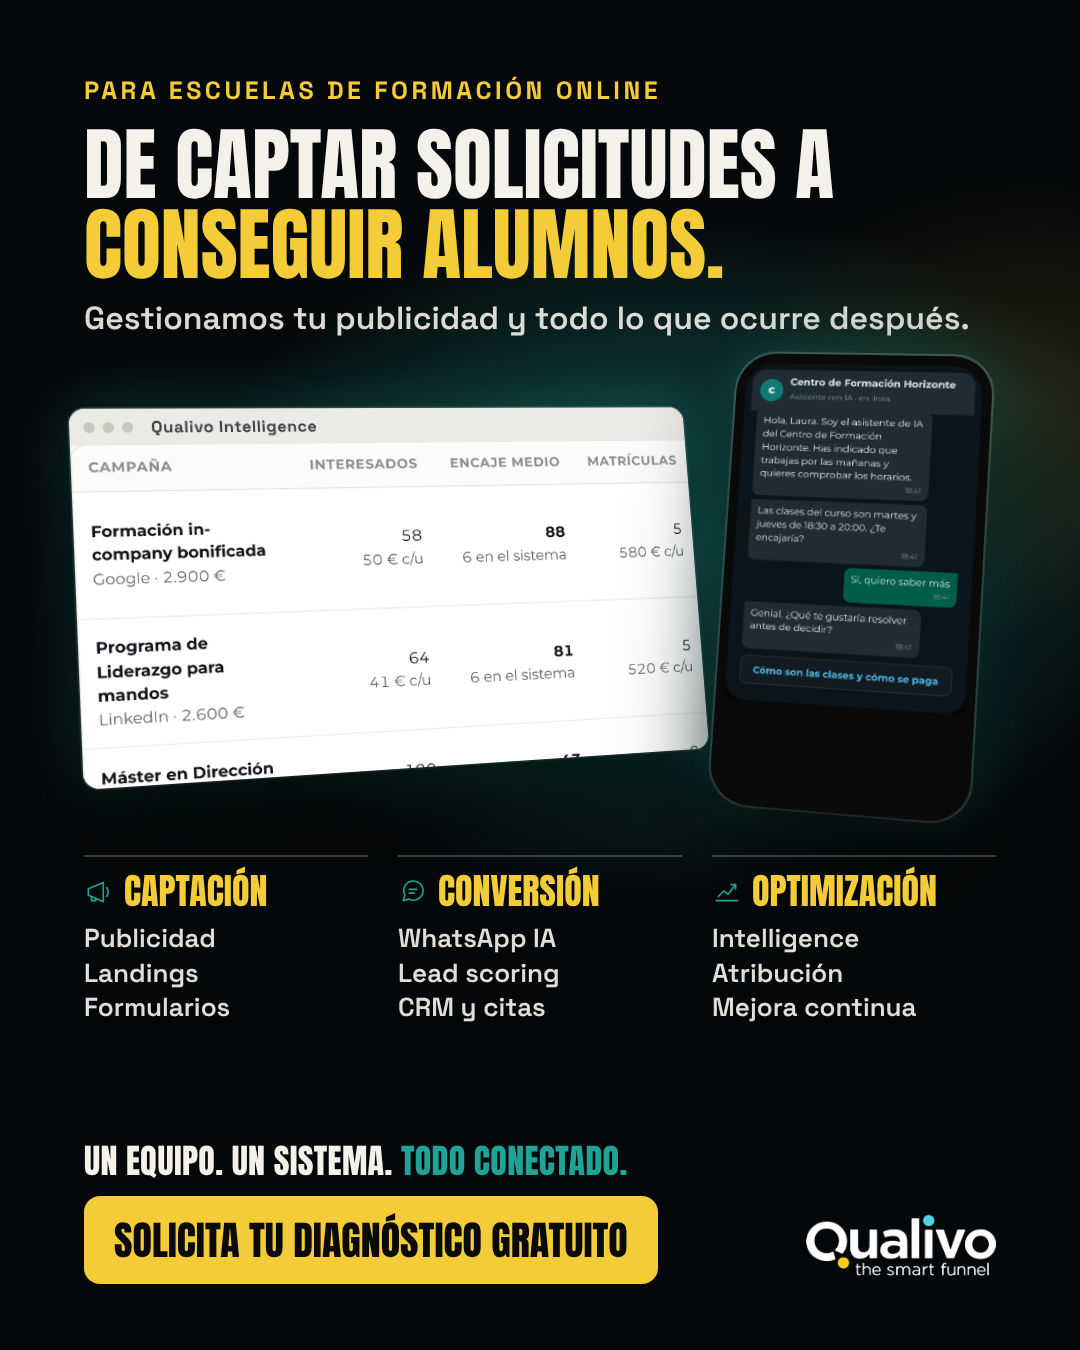
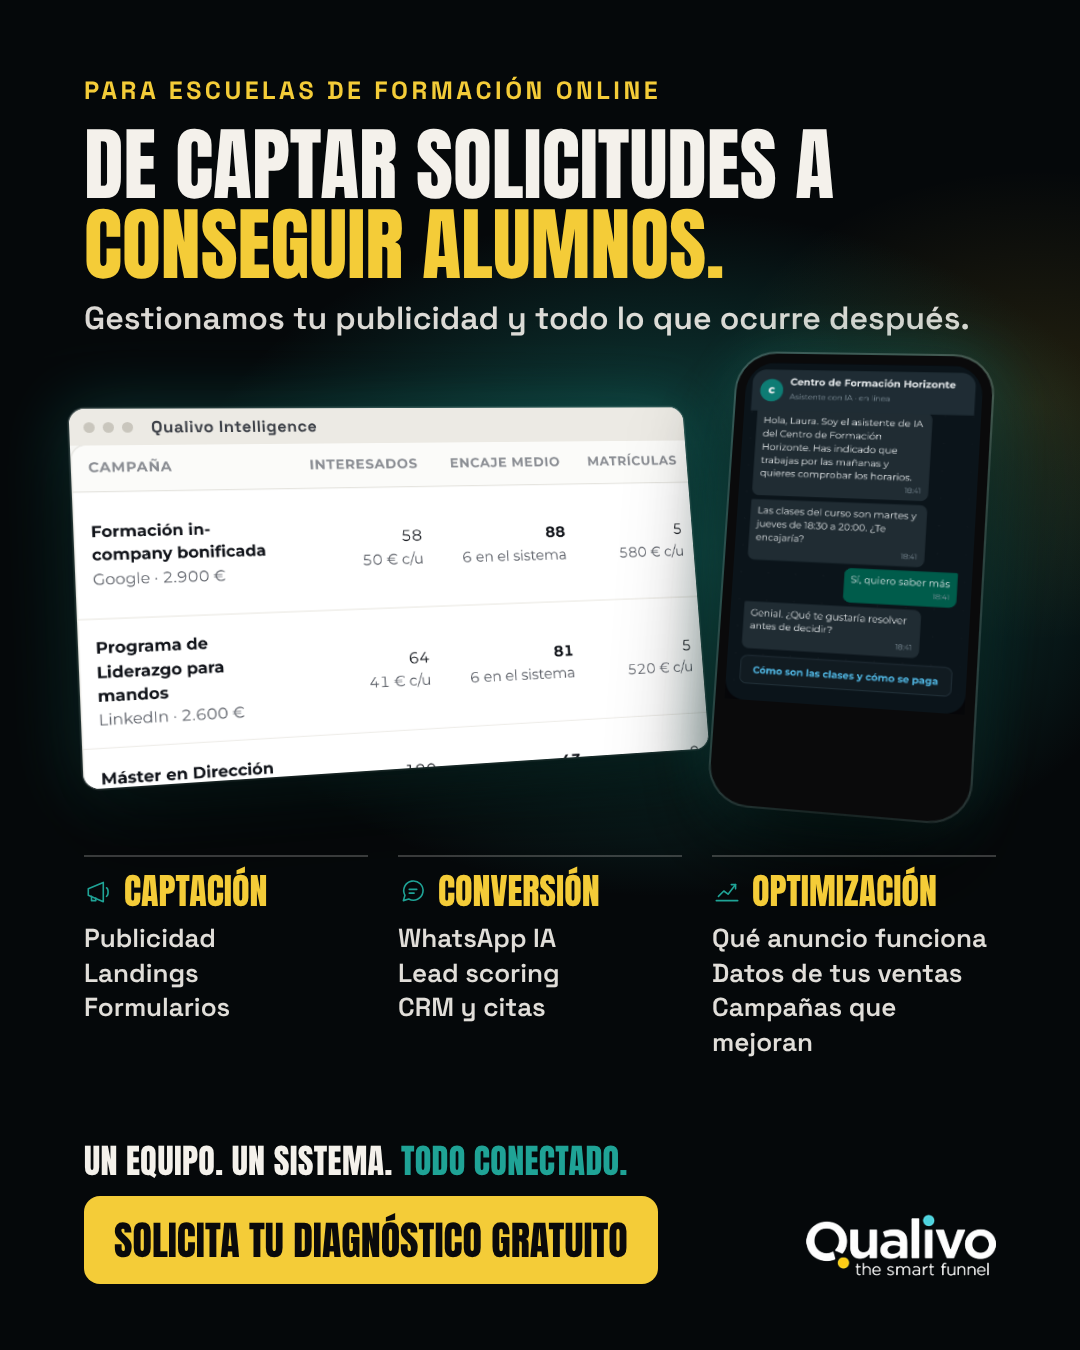
Sistema completo: columna Optimización en lenguaje llano
Claude-Session: https://claude.ai/code/session_01MkLw18JtVaTcJ5wUw6JLih

Changed region(s): [[0.6417, 0.6844, 0.9167, 0.7778]]

diff --git a/content/anuncios/2026-11-24-bateria-formacion/final.html b/content/anuncios/2026-11-24-bateria-formacion/final.html
@@ -39,7 +39,7 @@ h1{font-family:Anton;font-weight:400;font-size:80px;line-height:1;text-transform
  <div class="col">
   <div><h2><svg viewBox="0 0 56 56"><path d="M8 36V24l28-12v36L8 36z"/><path d="M14 38v8h8v-5"/><path d="M42 22c4 2 4 14 0 16"/></svg>Captación</h2><p>Publicidad<br>Landings<br>Formularios</p></div>
   <div><h2><svg viewBox="0 0 56 56"><path d="M10 46l3-10a18 18 0 1 1 7 7z"/><path d="M21 25h14M21 32h9"/></svg>Conversión</h2><p>WhatsApp IA<br>Lead scoring<br>CRM y citas</p></div>
-  <div><h2><svg viewBox="0 0 56 56"><path d="M8 46h40"/><path d="M12 38l10-10 8 6 14-18"/><path d="M36 16h8v8"/></svg>Optimización</h2><p>Intelligence<br>Atribución<br>Mejora continua</p></div>
+  <div><h2><svg viewBox="0 0 56 56"><path d="M8 46h40"/><path d="M12 38l10-10 8 6 14-18"/><path d="M36 16h8v8"/></svg>Optimización</h2><p>Qué anuncio funciona<br>Datos de tus ventas<br>Campañas que mejoran</p></div>
  </div>
  <div class="cie">Un equipo. Un sistema. <em>Todo conectado.</em></div>
  <div class="pie"><div class="cta">Solicita tu diagnóstico gratuito</div><img class="lg" src="../../video/2026-09-17-sistema/rec/logo-blanco.png"></div>
